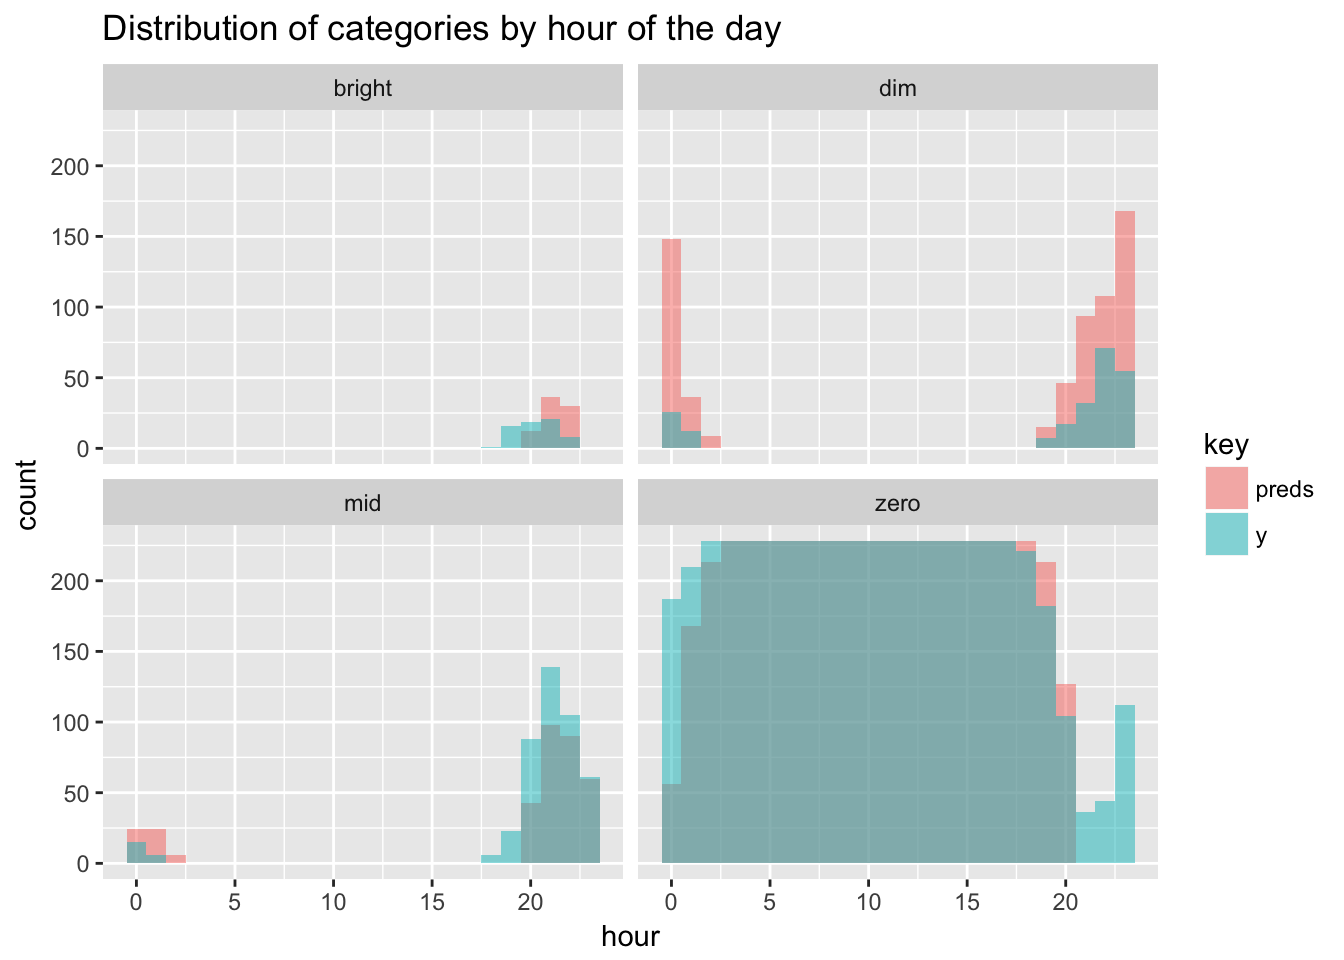
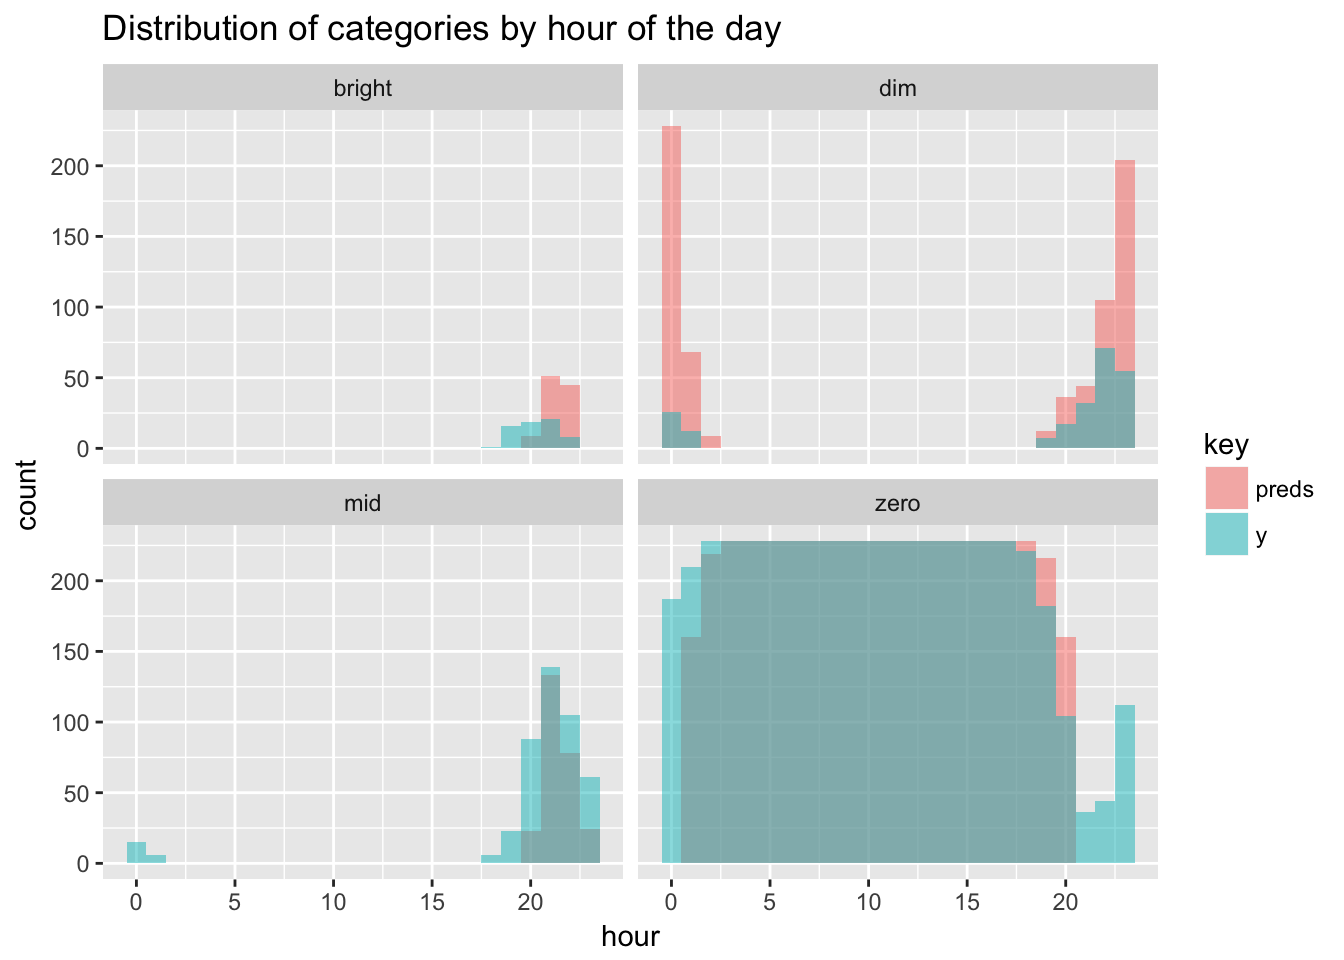
typo fix 4

diff --git a/blog/a-tidy-text-analysis-of-rick-and-morty/index.html b/blog/a-tidy-text-analysis-of-rick-and-morty/index.html
@@ -44,11 +44,11 @@
 
 
     
-    <link rel="stylesheet" href="../../css/reset.css?t=1507409655">
-    <link rel="stylesheet" href="../../css/pygments.css?t=1507409655">
-    <link rel="stylesheet" href="../../css/main.css?t=1507409655">
+    <link rel="stylesheet" href="../../css/reset.css?t=1507417193">
+    <link rel="stylesheet" href="../../css/pygments.css?t=1507417193">
+    <link rel="stylesheet" href="../../css/main.css?t=1507417193">
     
-        <link rel="stylesheet" href="../../css/override.css?t=1507409655">
+        <link rel="stylesheet" href="../../css/override.css?t=1507417193">
     
 
 
@@ -249,11 +249,11 @@ str(bigram_graph)</code></pre>
         count(season, word, sort = TRUE) %&gt;%
         bind_tf_idf(word, season, n)</code></pre>
 <p><img src="../../blog/2017/2017-10-07-tidyrick_files/figure-html/unnamed-chunk-12-1.png" width="672" /></p>
-<p>What we get back are the most important elements, characters, motives or places across episodes. I’m somewhat surprised that Mr. Meeseeks didn’t come in first though. I was sure as hell annoyed out of my mind after hearing it uttered for the 100th time on the <a href="https://en.wikipedia.org/wiki/Meeseeks_and_Destroy">Meeseeks and Destroy</a>. But then again, Mr Meeseeks does make a cameo in two other seasons, so that kind of torpedoes his chances for the first spot.</p>
+<p>What we get back are the most important elements, characters, motives or places across episodes. I’m somewhat surprised that Mr. Meeseeks didn’t come in first though. I was sure as hell annoyed out of my mind after hearing it uttered for the 100th time during the episode <a href="https://en.wikipedia.org/wiki/Meeseeks_and_Destroy">Meeseeks and Destroy</a>. But then again, Mr Meeseeks does make a cameo in two other seasons, so that kind of torpedoes his chances for the first spot.</p>
 </div>
 <div id="topic-models" class="section level2">
 <h2>Topic models</h2>
-<p>Having seen the most unique words of the script by seasons, we will take our analysis one last step further and try to capture the gist of a the show using topic modeling. Broadly speaking, it’s an unsupervised classification method that tries to represent a document as a collection of topics. Here, I will take the classic <a href="https://en.wikipedia.org/wiki/Latent_Dirichlet_allocation">Latent Dirichlet Allocation or shortly LDA</a> algorithm for a spin. The basic idea behind the is that</p>
+<p>Having seen the most unique words of the script by seasons, we will take our analysis one last step further and try to capture the gist of a the show using topic modeling. Broadly speaking, it’s an unsupervised classification method that tries to represent a document as a collection of topics. Here, I will take the classic <a href="https://en.wikipedia.org/wiki/Latent_Dirichlet_allocation">Latent Dirichlet Allocation or shortly LDA</a> algorithm for a spin. The basic idea is that</p>
 <blockquote>
 <p>“…a topic is defined as a mixture over words where each word has a probability of belonging to a topic. And a document is a mixture over topics, meaning that a single document can be composed of multiple topics.”&quot;</p>
 </blockquote>

diff --git a/blog/self-learning-hue-lights/index.html b/blog/self-learning-hue-lights/index.html
@@ -44,11 +44,11 @@
 
 
     
-    <link rel="stylesheet" href="../../css/reset.css?t=1507409655">
-    <link rel="stylesheet" href="../../css/pygments.css?t=1507409655">
-    <link rel="stylesheet" href="../../css/main.css?t=1507409655">
+    <link rel="stylesheet" href="../../css/reset.css?t=1507417193">
+    <link rel="stylesheet" href="../../css/pygments.css?t=1507417193">
+    <link rel="stylesheet" href="../../css/main.css?t=1507417193">
     
-        <link rel="stylesheet" href="../../css/override.css?t=1507409655">
+        <link rel="stylesheet" href="../../css/override.css?t=1507417193">
     
 
 
@@ -278,10 +278,10 @@ gbmFit &lt;- train(y ~ ., data = training,
 table(preds, testing$y)</code></pre>
 <pre><code>##         
 ## preds     dim  mid bright zero
-##   dim      82  189     31  322
-##   mid      76  118      7  144
-##   bright   21   50      0    7
-##   zero     41   86     27 4271</code></pre>
+##   dim      91  161     21  433
+##   mid      64  120     14   60
+##   bright   35   63      0    7
+##   zero     30   99     30 4244</code></pre>
 <p>Most mistakes are made trying to classify bright and mid. The model gets 0 bright values right and only manages to do so correctly 14% of the time for mid. But when do errors happen? To dig a little deeper let’s look at the previous histogram of categories by hour again for the test set, but now with the predictions overlaid on top.</p>
 <p><img src="../../blog/2017/2017-05-14-hue_files/figure-html/unnamed-chunk-11-1.png" width="672" /></p>
 <p>Bright values were always going be hard to guess, but the model at least comes close in terms of hours, but off on the exact days. The majority of misclassification comes from overzealously predicting dim in the evening and around midnight, when it should really be either mid or zero. That looks like a workable scenario for me.</p>

diff --git a/blog/analyzing-my-spotify-listening-history/index.html b/blog/analyzing-my-spotify-listening-history/index.html
@@ -44,11 +44,11 @@
 
 
     
-    <link rel="stylesheet" href="../../css/reset.css?t=1507409655">
-    <link rel="stylesheet" href="../../css/pygments.css?t=1507409655">
-    <link rel="stylesheet" href="../../css/main.css?t=1507409655">
+    <link rel="stylesheet" href="../../css/reset.css?t=1507417193">
+    <link rel="stylesheet" href="../../css/pygments.css?t=1507417193">
+    <link rel="stylesheet" href="../../css/main.css?t=1507417193">
     
-        <link rel="stylesheet" href="../../css/override.css?t=1507409655">
+        <link rel="stylesheet" href="../../css/override.css?t=1507417193">
     
 
 

diff --git a/blog/creating-a-spotify-playlist-using-luigi/index.html b/blog/creating-a-spotify-playlist-using-luigi/index.html
@@ -44,11 +44,11 @@
 
 
     
-    <link rel="stylesheet" href="../../css/reset.css?t=1507409655">
-    <link rel="stylesheet" href="../../css/pygments.css?t=1507409655">
-    <link rel="stylesheet" href="../../css/main.css?t=1507409655">
+    <link rel="stylesheet" href="../../css/reset.css?t=1507417193">
+    <link rel="stylesheet" href="../../css/pygments.css?t=1507417193">
+    <link rel="stylesheet" href="../../css/main.css?t=1507417193">
     
-        <link rel="stylesheet" href="../../css/override.css?t=1507409655">
+        <link rel="stylesheet" href="../../css/override.css?t=1507417193">
     
 
 

diff --git a/blog/starting-a-blogdown/index.html b/blog/starting-a-blogdown/index.html
@@ -44,11 +44,11 @@
 
 
     
-    <link rel="stylesheet" href="../../css/reset.css?t=1507409655">
-    <link rel="stylesheet" href="../../css/pygments.css?t=1507409655">
-    <link rel="stylesheet" href="../../css/main.css?t=1507409655">
+    <link rel="stylesheet" href="../../css/reset.css?t=1507417193">
+    <link rel="stylesheet" href="../../css/pygments.css?t=1507417193">
+    <link rel="stylesheet" href="../../css/main.css?t=1507417193">
     
-        <link rel="stylesheet" href="../../css/override.css?t=1507409655">
+        <link rel="stylesheet" href="../../css/override.css?t=1507417193">
     
 
 

diff --git a/categories/r/index.html b/categories/r/index.html
@@ -44,11 +44,11 @@
 
 
     
-    <link rel="stylesheet" href="../../css/reset.css?t=1507409655">
-    <link rel="stylesheet" href="../../css/pygments.css?t=1507409655">
-    <link rel="stylesheet" href="../../css/main.css?t=1507409655">
+    <link rel="stylesheet" href="../../css/reset.css?t=1507417193">
+    <link rel="stylesheet" href="../../css/pygments.css?t=1507417193">
+    <link rel="stylesheet" href="../../css/main.css?t=1507417193">
     
-        <link rel="stylesheet" href="../../css/override.css?t=1507409655">
+        <link rel="stylesheet" href="../../css/override.css?t=1507417193">
     
 
 

diff --git a/tags/dplyr/index.html b/tags/dplyr/index.html
@@ -44,11 +44,11 @@
 
 
     
-    <link rel="stylesheet" href="../../css/reset.css?t=1507409655">
-    <link rel="stylesheet" href="../../css/pygments.css?t=1507409655">
-    <link rel="stylesheet" href="../../css/main.css?t=1507409655">
+    <link rel="stylesheet" href="../../css/reset.css?t=1507417193">
+    <link rel="stylesheet" href="../../css/pygments.css?t=1507417193">
+    <link rel="stylesheet" href="../../css/main.css?t=1507417193">
     
-        <link rel="stylesheet" href="../../css/override.css?t=1507409655">
+        <link rel="stylesheet" href="../../css/override.css?t=1507417193">
     
 
 

diff --git a/tags/ggplot/index.html b/tags/ggplot/index.html
@@ -44,11 +44,11 @@
 
 
     
-    <link rel="stylesheet" href="../../css/reset.css?t=1507409655">
-    <link rel="stylesheet" href="../../css/pygments.css?t=1507409655">
-    <link rel="stylesheet" href="../../css/main.css?t=1507409655">
+    <link rel="stylesheet" href="../../css/reset.css?t=1507417193">
+    <link rel="stylesheet" href="../../css/pygments.css?t=1507417193">
+    <link rel="stylesheet" href="../../css/main.css?t=1507417193">
     
-        <link rel="stylesheet" href="../../css/override.css?t=1507409655">
+        <link rel="stylesheet" href="../../css/override.css?t=1507417193">
     
 
 

diff --git a/tags/hue/index.html b/tags/hue/index.html
@@ -44,11 +44,11 @@
 
 
     
-    <link rel="stylesheet" href="../../css/reset.css?t=1507409655">
-    <link rel="stylesheet" href="../../css/pygments.css?t=1507409655">
-    <link rel="stylesheet" href="../../css/main.css?t=1507409655">
+    <link rel="stylesheet" href="../../css/reset.css?t=1507417193">
+    <link rel="stylesheet" href="../../css/pygments.css?t=1507417193">
+    <link rel="stylesheet" href="../../css/main.css?t=1507417193">
     
-        <link rel="stylesheet" href="../../css/override.css?t=1507409655">
+        <link rel="stylesheet" href="../../css/override.css?t=1507417193">
     
 
 

diff --git a/tags/luigi/index.html b/tags/luigi/index.html
@@ -44,11 +44,11 @@
 
 
     
-    <link rel="stylesheet" href="../../css/reset.css?t=1507409655">
-    <link rel="stylesheet" href="../../css/pygments.css?t=1507409655">
-    <link rel="stylesheet" href="../../css/main.css?t=1507409655">
+    <link rel="stylesheet" href="../../css/reset.css?t=1507417193">
+    <link rel="stylesheet" href="../../css/pygments.css?t=1507417193">
+    <link rel="stylesheet" href="../../css/main.css?t=1507417193">
     
-        <link rel="stylesheet" href="../../css/override.css?t=1507409655">
+        <link rel="stylesheet" href="../../css/override.css?t=1507417193">
     
 
 

diff --git a/tags/plot/index.html b/tags/plot/index.html
@@ -44,11 +44,11 @@
 
 
     
-    <link rel="stylesheet" href="../../css/reset.css?t=1507409655">
-    <link rel="stylesheet" href="../../css/pygments.css?t=1507409655">
-    <link rel="stylesheet" href="../../css/main.css?t=1507409655">
+    <link rel="stylesheet" href="../../css/reset.css?t=1507417193">
+    <link rel="stylesheet" href="../../css/pygments.css?t=1507417193">
+    <link rel="stylesheet" href="../../css/main.css?t=1507417193">
     
-        <link rel="stylesheet" href="../../css/override.css?t=1507409655">
+        <link rel="stylesheet" href="../../css/override.css?t=1507417193">
     
 
 

diff --git a/tags/purrr/index.html b/tags/purrr/index.html
@@ -44,11 +44,11 @@
 
 
     
-    <link rel="stylesheet" href="../../css/reset.css?t=1507409655">
-    <link rel="stylesheet" href="../../css/pygments.css?t=1507409655">
-    <link rel="stylesheet" href="../../css/main.css?t=1507409655">
+    <link rel="stylesheet" href="../../css/reset.css?t=1507417193">
+    <link rel="stylesheet" href="../../css/pygments.css?t=1507417193">
+    <link rel="stylesheet" href="../../css/main.css?t=1507417193">
     
-        <link rel="stylesheet" href="../../css/override.css?t=1507409655">
+        <link rel="stylesheet" href="../../css/override.css?t=1507417193">
     
 
 
